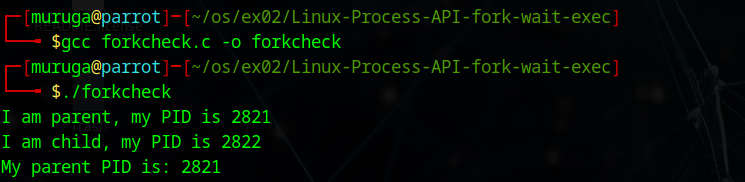
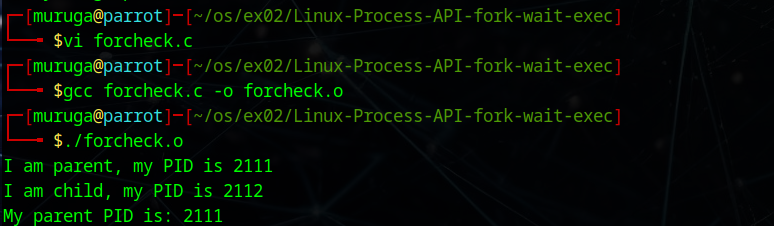
difffcommand

Changed region(s): [[0.0, 0.0275, 0.8336, 1.0]]

diff --git a/execcheck2.c b/execcheck2.c
@@ -1,0 +1,41 @@
+#include <stdio.h>
+#include <stdlib.h>
+#include <sys/types.h>
+#include <sys/wait.h>
+#include <unistd.h>
+
+int main() {
+    int status;
+    
+    printf("Running ps with execl\n");
+    if (fork() == 0) {
+        execl("ps", "ps", "-f", NULL);
+        perror("execl failed");
+        exit(1);
+    }
+    wait(&status);
+    
+    if (WIFEXITED(status)) {
+        printf("Child exited with status: %d\n", WEXITSTATUS(status));
+    } else {
+        printf("Child did not exit successfully\n");
+    }
+    
+    printf("Running ps with execlp (without full path)\n");
+    if (fork() == 0) {
+        execlp("ps", "ps", "-f", NULL);
+        perror("execlp failed");
+        exit(1);
+    }
+    wait(&status);
+    
+    if (WIFEXITED(status)) {
+        printf("Child exited for execlp with status: %d\n", WEXITSTATUS(status));
+    } else {
+        printf("Child did not exit successfully\n");
+    }
+    
+    printf("Done.\n");
+    return 0;
+}
+

diff --git a/forcheck.c b/forcheck.c
@@ -1,0 +1,16 @@
+#include <stdio.h>
+#include <stdlib.h>
+#include <sys/wait.h>
+#include <unistd.h>
+int main() {
+    int pid = fork();
+
+    if (pid == 0) { 
+        printf("I am child, my PID is %d\n", getpid()); 
+        printf("My parent PID is: %d\n", getppid()); 
+        sleep(2);  // Keep child alive for verification
+    } else { 
+        printf("I am parent, my PID is %d\n", getpid()); 
+        wait(NULL); 
+    }
+}
